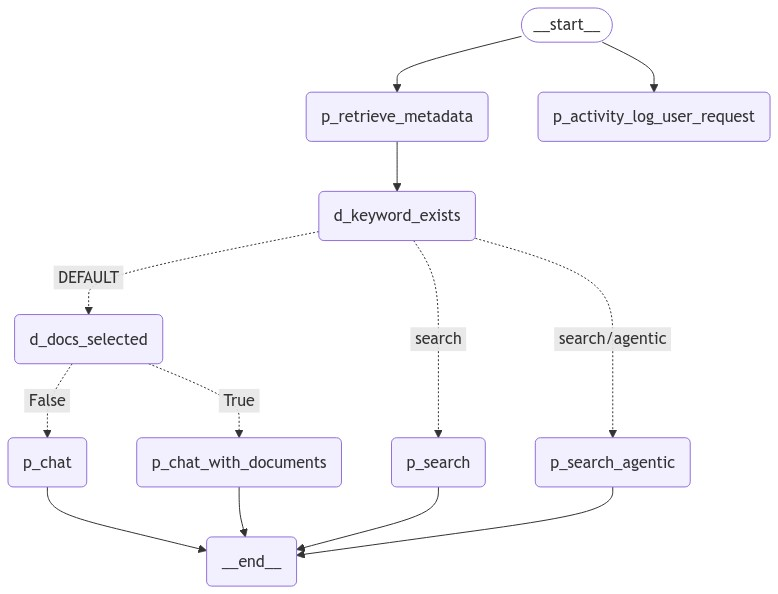
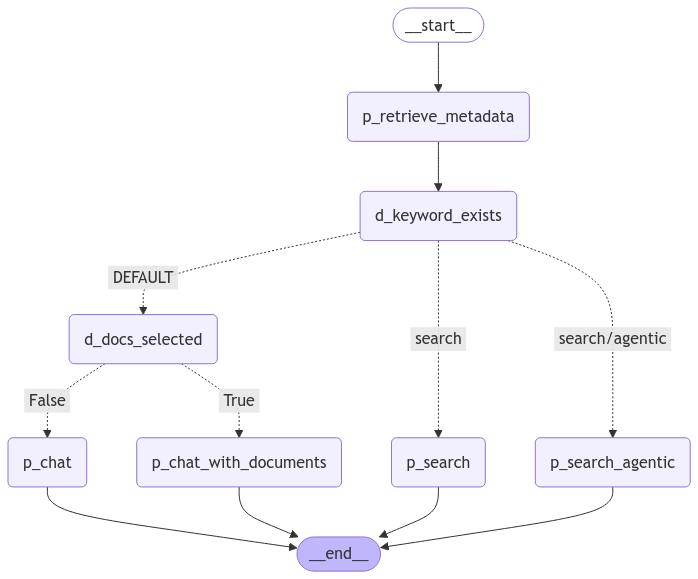
Removed initial activity log line about user request from redbox-core

diff --git a/redbox-core/redbox/graph/root.py b/redbox-core/redbox/graph/root.py
@@ -455,25 +455,12 @@ def get_root_graph(
     builder.add_node("p_retrieve_metadata", metadata_subgraph)
 
     # Log
-    builder.add_node(
-        "p_activity_log_user_request",
-        build_activity_log_node(
-            lambda s: [
-                RedboxActivityEvent(
-                    message=f"You selected {len(s.request.s3_keys)} file{"s" if len(s.request.s3_keys)>1 else ""} - {",".join(s.request.s3_keys)}"
-                )
-                if len(s.request.s3_keys) > 0
-                else "You selected no files",
-            ]
-        ),
-    )
 
     # Decisions
     builder.add_node("d_keyword_exists", empty_process)
     builder.add_node("d_docs_selected", empty_process)
 
     # Edges
-    builder.add_edge(START, "p_activity_log_user_request")
     builder.add_edge(START, "p_retrieve_metadata")
     builder.add_edge("p_retrieve_metadata", "d_keyword_exists")
     builder.add_conditional_edges(
